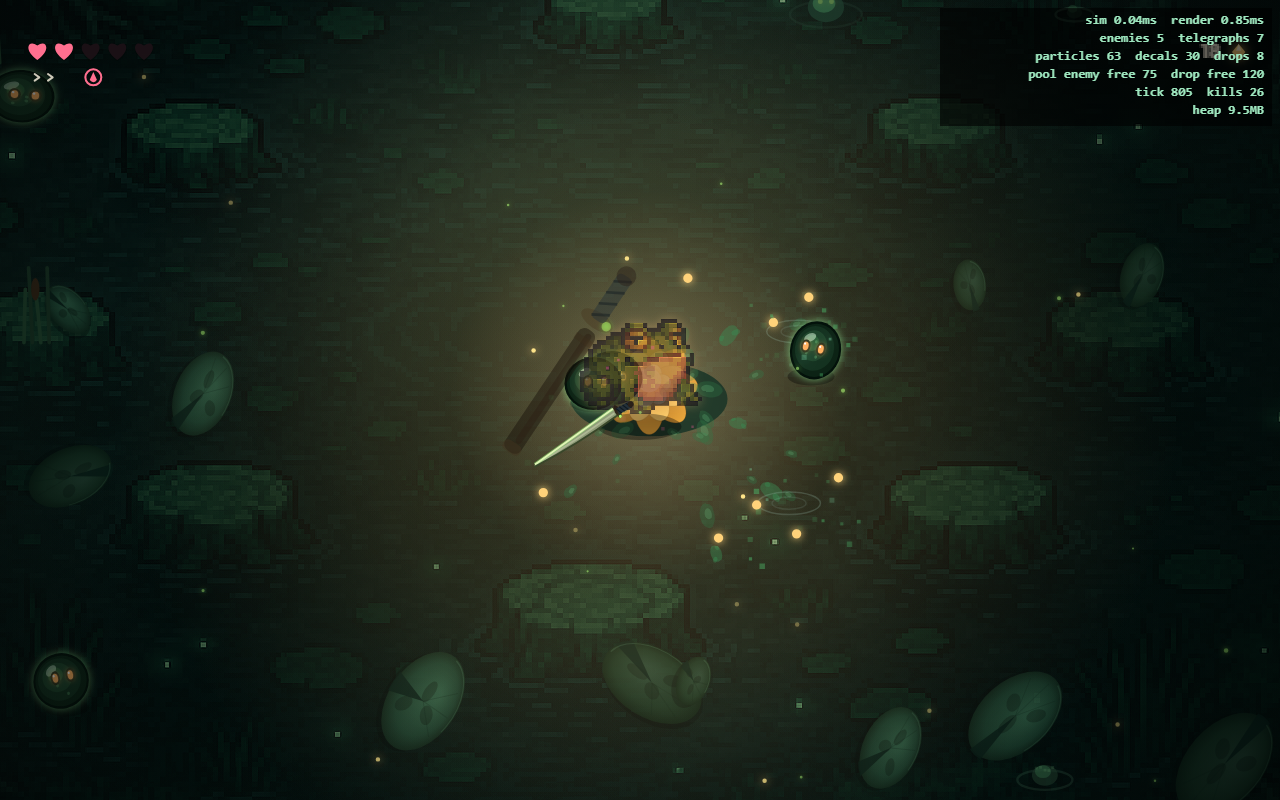
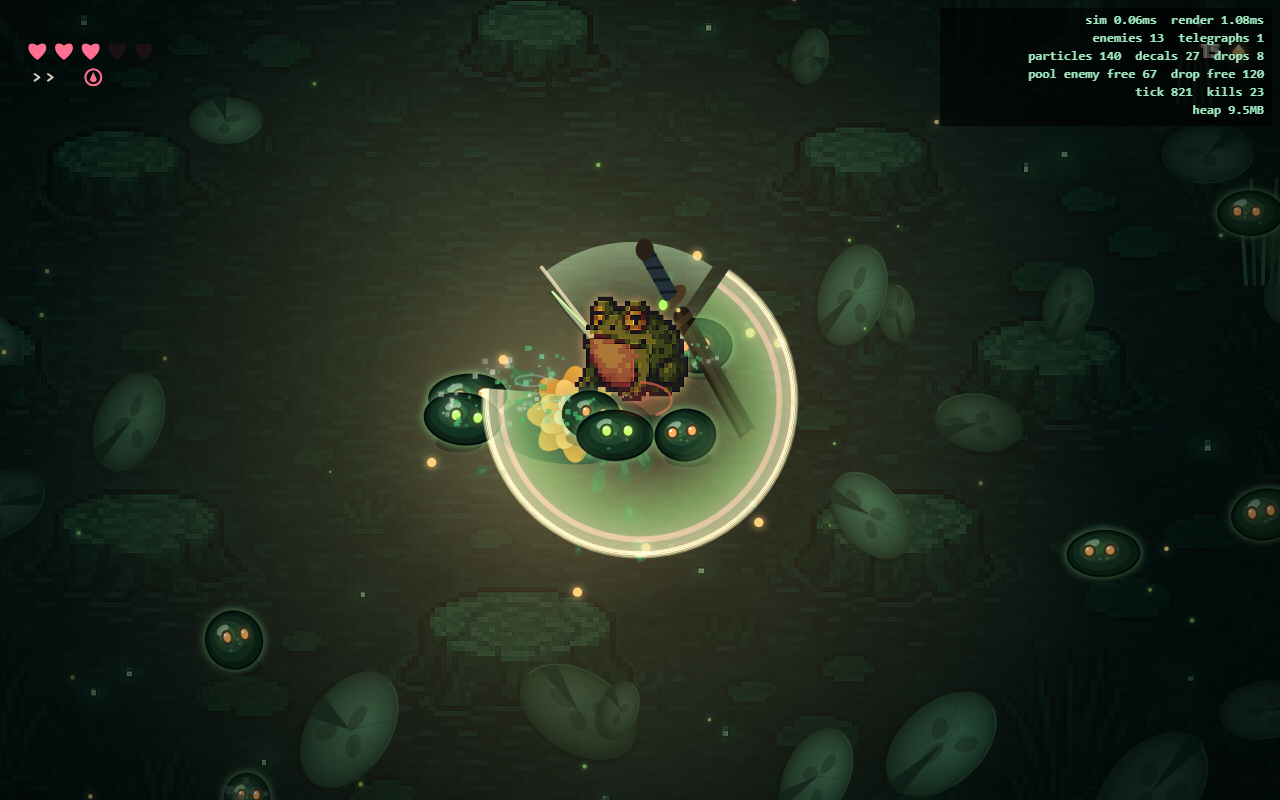
R11: hot-pink attack accent, bigger blinking enemy eyes, denser lily pads
- Swing arcs carry a hot-pink accent inside the cream edge -> combat borrows the palette's pink
  accent (Ian: hot pink attack accents; REF_02 pink tongue-impact).
- Enemy eyes bigger + desynced blink (expressive, alive; REFERENCE_PACK enemy-blink frame).
- Lily pads 17->24, larger -> pond surface dominates the receding mounds.

diff --git a/src/render/render.ts b/src/render/render.ts
@@ -284,11 +284,11 @@ function mulberry(seed: number): () => number {
   };
 }
 const dRng = mulberry(0x0a7ed3);
-const PADS = Array.from({ length: 17 }, () => {
+const PADS = Array.from({ length: 24 }, () => {
   let x = 0, y = 0;
   do { x = 130 + dRng() * (ARENA_W - 260); y = 130 + dRng() * (ARENA_H - 260); }
-  while (Math.hypot(x - ARENA_W / 2, y - ARENA_H / 2) < 300);       // keep the play/lotus center clear
-  return { x, y, r: 26 + dRng() * 38, rot: dRng() * Math.PI, light: dRng() < 0.34, notch: dRng() * Math.PI * 2 };
+  while (Math.hypot(x - ARENA_W / 2, y - ARENA_H / 2) < 290);       // keep the play/lotus center clear
+  return { x, y, r: 30 + dRng() * 46, rot: dRng() * Math.PI, light: dRng() < 0.36, notch: dRng() * Math.PI * 2 };
 });
 const REEDS = Array.from({ length: 8 }, () => ({
   x: dRng() < 0.5 ? 70 + dRng() * 240 : ARENA_W - 70 - dRng() * 240,
@@ -463,6 +463,10 @@ function drawSlashFx(ctx: CanvasRenderingContext2D, time: number): void {
     ctx.strokeStyle = `rgba(255,236,190,${0.85 * fade})`;
     ctx.lineWidth = (s.kind === 'heavy' ? 5 : 3) * (1 - k * 0.4);
     ctx.beginPath(); ctx.arc(0, 0, r1, s.a0, s.a1); ctx.stroke();
+    // hot-pink attack accent just inside the edge — ties combat to the palette's pink accent (Ian)
+    ctx.strokeStyle = `rgba(255,95,162,${0.6 * fade})`;
+    ctx.lineWidth = (s.kind === 'heavy' ? 3 : 2) * (1 - k * 0.4);
+    ctx.beginPath(); ctx.arc(0, 0, r1 * 0.9, s.a0, s.a1); ctx.stroke();
     ctx.restore();
   }
 }
@@ -973,18 +977,21 @@ function drawSlime(ctx: CanvasRenderingContext2D, e: Enemy, r: number, time: num
   // big cute glowing eyes with glint (track facing)
   const look = e.facing;
   const lx = Math.cos(look) * r * 0.12, ly = Math.sin(look) * r * 0.08;
-  const es = (e.kind === 'gloopa' ? 0.22 : e.kind === 'spikeblob' ? 0.19 : 0.18) * r;
+  const es = (e.kind === 'gloopa' ? 0.24 : e.kind === 'spikeblob' ? 0.21 : 0.2) * r;   // bigger, expressive
   const warmEye = ((e.seed * 0.379) % 1) < 0.28;    // ~28% amber-eyed (REF_02 swarm has mixed eyes)
   const iris = (warm || warmEye) ? '#ffb060' : '#c9ff72';
+  const blink = (((time + e.seed * 7) % (3.2 + (e.seed % 1.5))) < 0.13) ? 0.14 : 1;   // desynced blink
   for (const side of [-1, 1]) {
     const ox = side * r * 0.33 + lx, oy = -r * 0.1 + ly;
     ctx.fillStyle = '#0c1f13';
-    ctx.beginPath(); ctx.ellipse(ox, oy, es * 1.1, es * 1.35, 0, 0, Math.PI * 2); ctx.fill();
+    ctx.beginPath(); ctx.ellipse(ox, oy, es * 1.1, es * 1.35 * blink, 0, 0, Math.PI * 2); ctx.fill();
     ctx.fillStyle = iris; ctx.shadowColor = iris; ctx.shadowBlur = 6;
-    ctx.beginPath(); ctx.ellipse(ox, oy, es * 0.66, es * 0.9, 0, 0, Math.PI * 2); ctx.fill();
+    ctx.beginPath(); ctx.ellipse(ox, oy, es * 0.66, es * 0.9 * blink, 0, 0, Math.PI * 2); ctx.fill();
     ctx.shadowBlur = 0;
-    ctx.fillStyle = '#ffffff';
-    ctx.beginPath(); ctx.arc(ox - es * 0.28, oy - es * 0.45, es * 0.24, 0, Math.PI * 2); ctx.fill();
+    if (blink > 0.5) {
+      ctx.fillStyle = '#ffffff';
+      ctx.beginPath(); ctx.arc(ox - es * 0.28, oy - es * 0.45, es * 0.24, 0, Math.PI * 2); ctx.fill();
+    }
   }
   // gloopa third eye (grotesque bruiser tell)
   if (e.kind === 'gloopa') {
